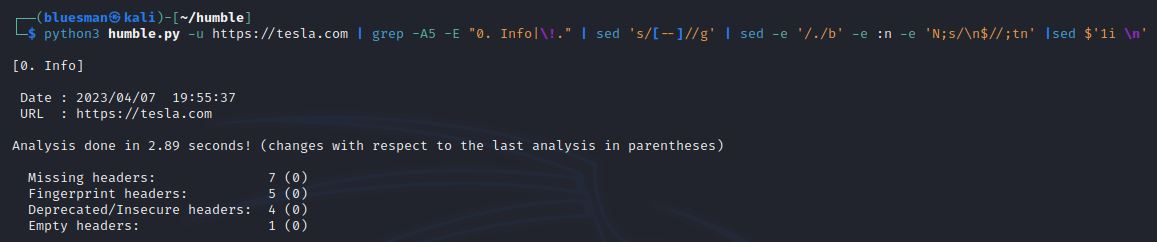
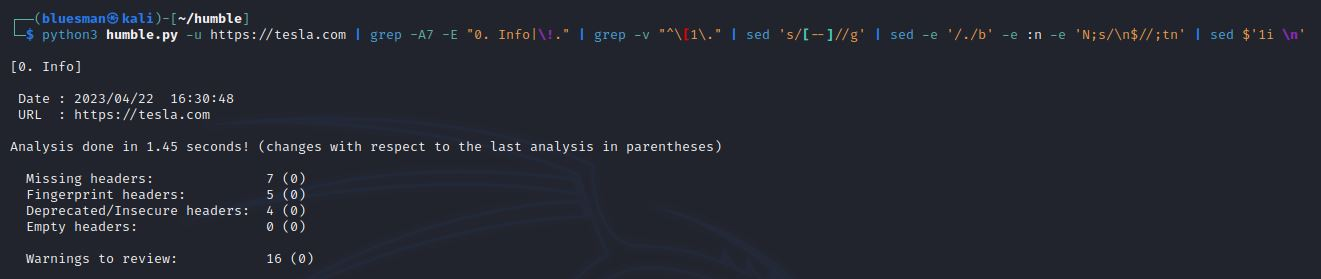
Minor: Update README.

diff --git a/README.md b/README.md
@@ -169,17 +169,17 @@ $ python3 humble.py -u https://tesla.com | grep -A 8 "\!." | sed $'1i \n'
 <img src="https://github.com/rfc-st/humble/blob/master/screenshots/humble_adv_linux.jpg" alt="Show only the analysis summary (Linux)">
 
 
-### Windows: In Spanish; show only the analysis summary (PowerShell >= 7 required)
+### Windows (in Spanish): show only the analysis summary (PowerShell >= 7 required)
 
 ```
-$ py humble.py -u https://tesla.com -l es | Select-String -Pattern '!.' -Context 1,6 -NoEmphasis
+$ py humble.py -u https://tesla.com -l es | Select-String -Pattern '!.' -Context 1,8 -NoEmphasis
 ```
 <img src="https://github.com/rfc-st/humble/blob/master/screenshots/humble_adv_windows.jpg" alt="Show only the analysis summary (Windows, in Spanish. PowerShell >= 7 required)">
 
 
 ### Linux: Show only the URL, date and analysis summary
 ```
-$ python3 humble.py -u https://tesla.com | grep -A5 -E "0. Info|\!." | sed 's/[--]//g' | sed -e '/./b' -e :n -e 'N;s/\n$//;tn' |sed $'1i \n'
+$ python3 humble.py -u https://tesla.com | grep -A7 -E "0. Info|\!." | grep -v "^\[1\." | sed 's/[--]//g' | sed -e '/./b' -e :n -e 'N;s/\n$//;tn' | sed $'1i \n'
 ```
 <img src="https://github.com/rfc-st/humble/blob/master/screenshots/humble_adv_linux_2.jpg" alt="Show URL, date and the analysis summary (Linux)">
 
